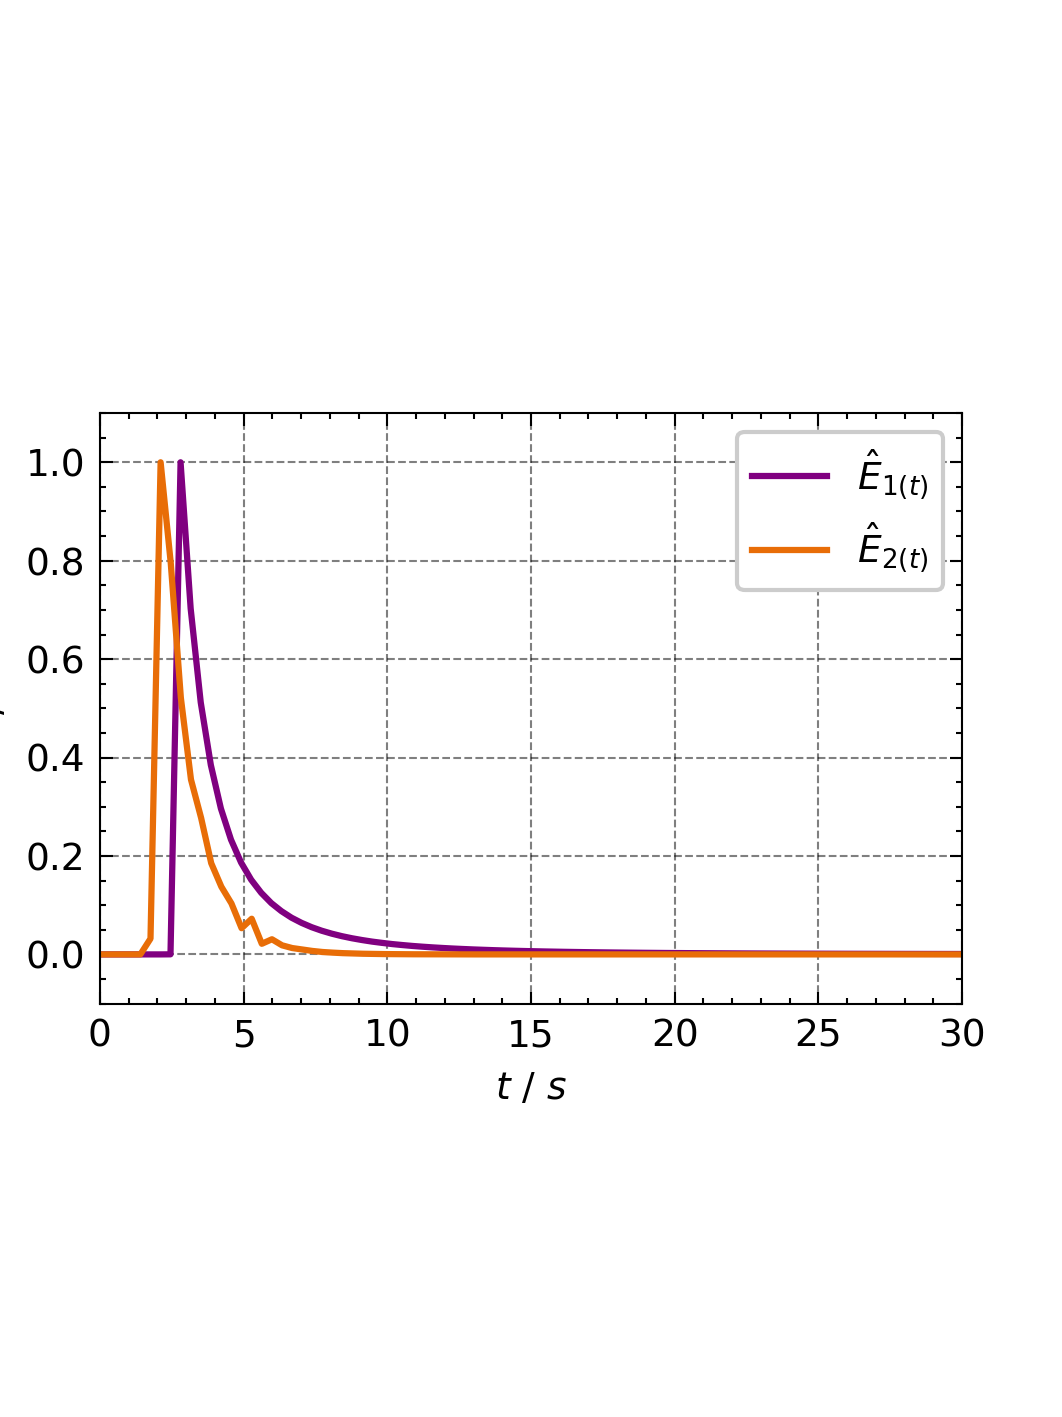
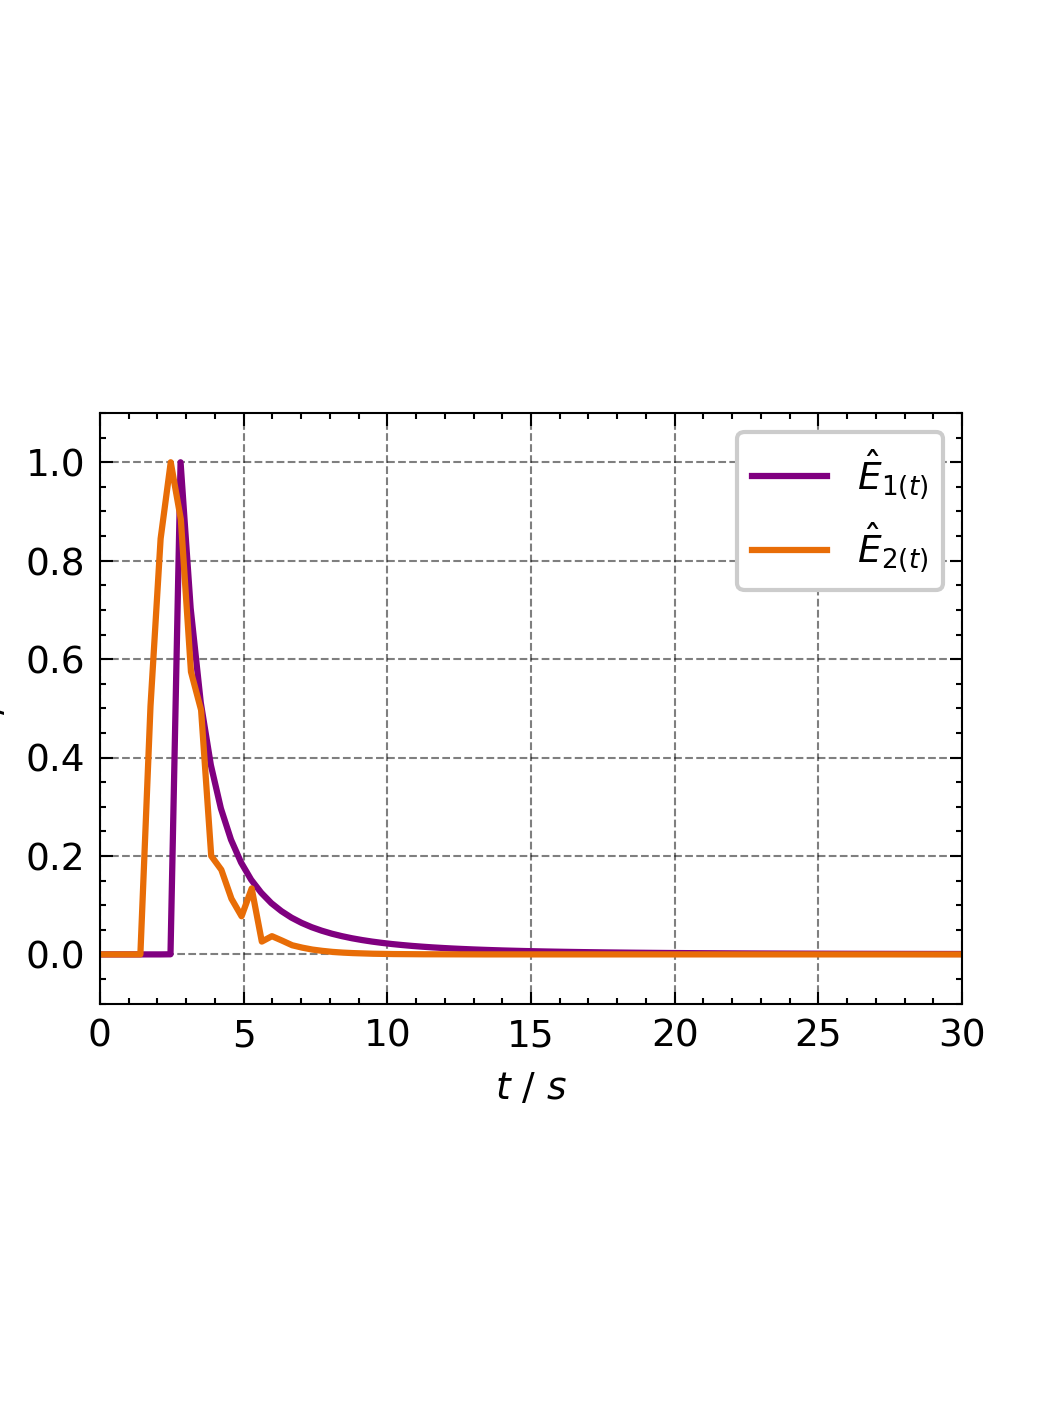
learning rate

Changed region(s): [[0.1243, 0.3105, 0.3107, 0.6831]]

diff --git a/Experiments/Preliminary/2nd_Layer_Adler_Cholete/2nd_Layer_Adler_Cholete_LR_10_4.py b/Experiments/Preliminary/2nd_Layer_Adler_Cholete/2nd_Layer_Adler_Cholete_LR_10_4.py
@@ -11,7 +11,7 @@ import numpy as np
 import wandb
 module_path = os.path.expanduser("~/Documents/GitHub/nRTD/lib")
 sys.path.append(module_path)
-from nRTD.rtd_fitting_3 import RTDModule
+from nRTD.rtd_fitting_2 import RTDModule
 from nRTD.rtd_net_4 import RTDNet
 from lightning.pytorch import loggers as pl_loggers
 import os
@@ -32,9 +32,9 @@ coefficients = {
 # epoch_1=30000
 # epoch_2=20000
 epoch_1=30000
-epoch_2=400000
+epoch_2=200000
 epoch_3=epoch_1
-learning_rate=1e-4
+learning_rate=1e-3
 disc_n_1_out=200
 
 # base_dir = '/Users/tuanaoyuncu/Documents/GitHub/nRTD/Experiments/Preliminary/2_nd_Layer_Convolution'

diff --git a/Experiments/Preliminary/Convolution_script/Convolution_022_Dispersion_Model/Convolution_Dispersion_Model_bo_03.py b/Experiments/Preliminary/Convolution_script/Convolution_022_Dispersion_Model/Convolution_Dispersion_Model_bo_03.py
@@ -11,7 +11,7 @@ import numpy as np
 import wandb
 module_path = os.path.expanduser("~/Documents/GitHub/nRTD/lib")
 sys.path.append(module_path)
-from nRTD.rtd_fitting_3 import RTDModule
+from nRTD.rtd_fitting_2 import RTDModule
 from nRTD.rtd_net_4 import RTDNet
 from lightning.pytorch import loggers as pl_loggers
 import os
@@ -123,7 +123,7 @@ print(f"t_conv size: {t_conv.size()}")
 model = RTDModule(
     kernel_sizes=[n_e_1],
     kernel_times=[(0.0, t_e_1)],
-    learning_rate=1e-4,
+    learning_rate=1e-3,
     use_scheduler=True,
     scheduler_kwargs={"factor": 0.5, "patience": 80},
 )

diff --git a/Experiments/Preliminary/Convolution_script/Convolution_023_Adler_havarka_Model/Convolution_023_Adler_h_tau_3.py b/Experiments/Preliminary/Convolution_script/Convolution_023_Adler_havarka_Model/Convolution_023_Adler_h_tau_3.py
@@ -11,7 +11,7 @@ import numpy as np
 import wandb
 module_path = os.path.expanduser("~/Documents/GitHub/nRTD/lib")
 sys.path.append(module_path)
-from nRTD.rtd_fitting_2 import RTDModule
+from nRTD.rtd_fitting_3 import RTDModule
 from nRTD.rtd_net_4 import RTDNet
 from lightning.pytorch import loggers as pl_loggers
 import os

diff --git a/Experiments/Preliminary/Convolution_script/Convolution_023_Adler_havarka_Model/Convolution_Adler_h_tau_1.py b/Experiments/Preliminary/Convolution_script/Convolution_023_Adler_havarka_Model/Convolution_Adler_h_tau_1.py
@@ -11,7 +11,7 @@ import numpy as np
 import wandb
 module_path = os.path.expanduser("~/Documents/GitHub/nRTD/lib")
 sys.path.append(module_path)
-from nRTD.rtd_fitting_2 import RTDModule
+from nRTD.rtd_fitting_3 import RTDModule
 from nRTD.rtd_net_4 import RTDNet
 from lightning.pytorch import loggers as pl_loggers
 import os

diff --git a/Experiments/Preliminary/Convolution_script/Convolution_022_Dispersion_Model/Convolution_022_Dispersion_Model_Bo10.py b/Experiments/Preliminary/Convolution_script/Convolution_022_Dispersion_Model/Convolution_022_Dispersion_Model_Bo10.py
@@ -123,7 +123,7 @@ print(f"t_conv size: {t_conv.size()}")
 model = RTDModule(
     kernel_sizes=[n_e_1],
     kernel_times=[(0.0, t_e_1)],
-    learning_rate=1e-4,
+    learning_rate=1e-3,
     use_scheduler=True,
     scheduler_kwargs={"factor": 0.5, "patience": 80},
 )

diff --git a/Experiments/Preliminary/Convolution_script/Convolution_022_Dispersion_Model/Convolution_022_Dispersion_Model_bo_1.py b/Experiments/Preliminary/Convolution_script/Convolution_022_Dispersion_Model/Convolution_022_Dispersion_Model_bo_1.py
@@ -123,7 +123,7 @@ print(f"t_conv size: {t_conv.size()}")
 model = RTDModule(
     kernel_sizes=[n_e_1],
     kernel_times=[(0.0, t_e_1)],
-    learning_rate=1e-4,
+    learning_rate=1e-3,
     use_scheduler=True,
     scheduler_kwargs={"factor": 0.5, "patience": 80},
 )

diff --git a/Experiments/Preliminary/2nd_Layer_Adler_Cholete/2bd_Layer_Adler_cholete_draft.py b/Experiments/Preliminary/2nd_Layer_Adler_Cholete/2bd_Layer_Adler_cholete_draft.py
@@ -32,7 +32,7 @@ coefficients = {
 # epoch_1=30000
 # epoch_2=20000
 epoch_1=30000
-epoch_2=400000
+epoch_2=200000
 epoch_3=epoch_1
 learning_rate=1e-3
 disc_n_1_out=200
